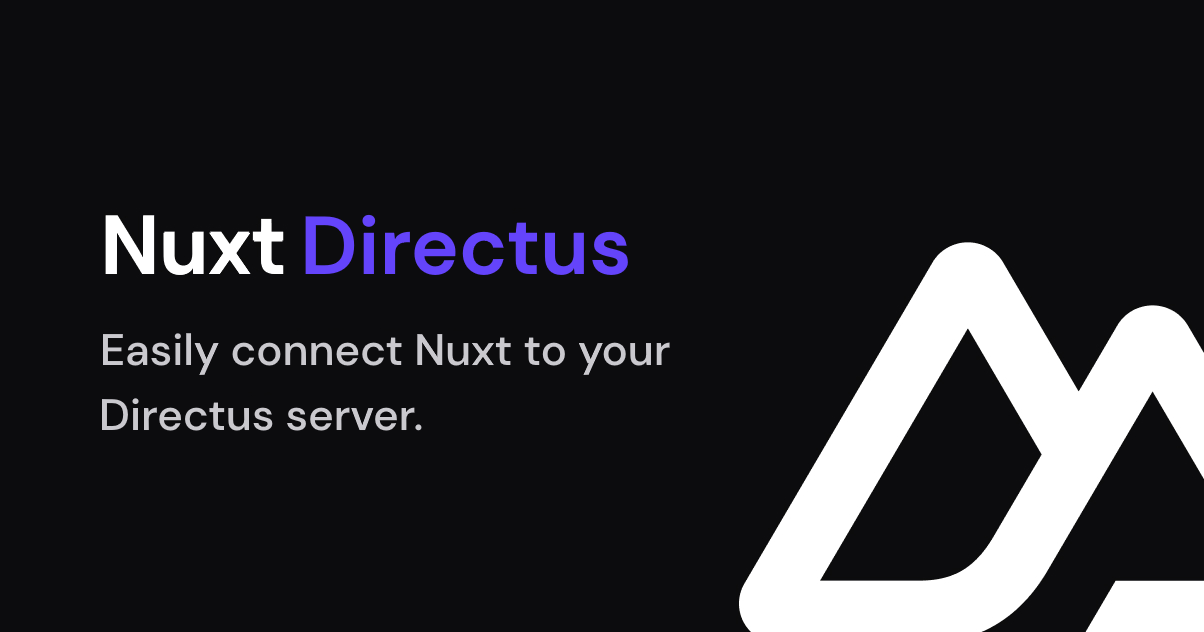
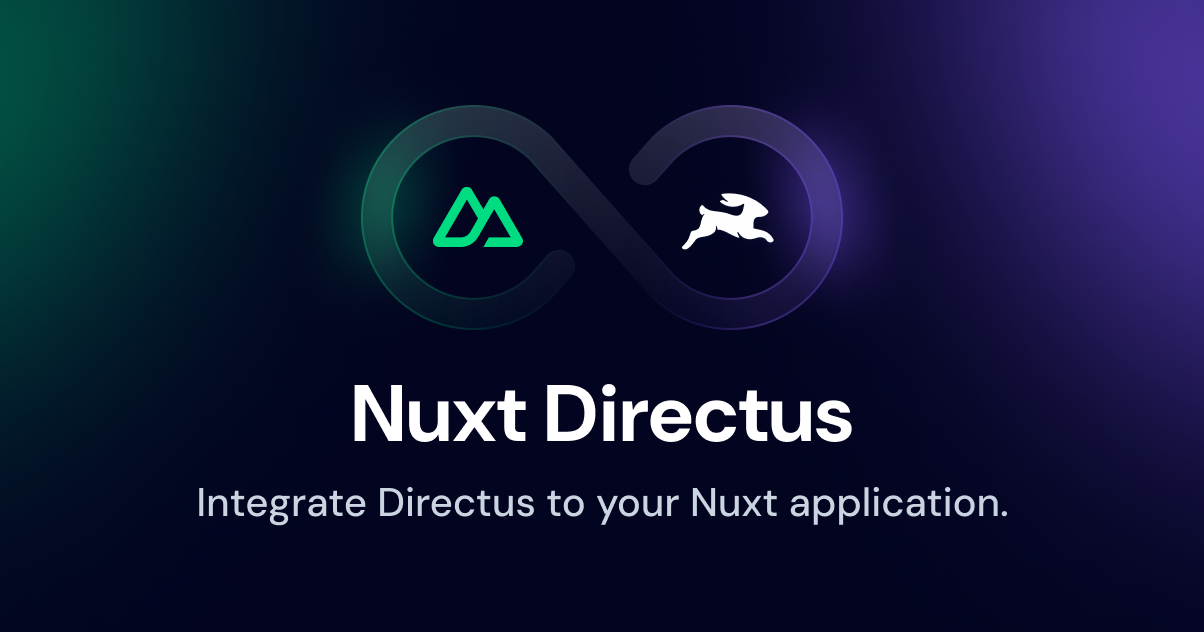
docs: update cover

diff --git a/README.md b/README.md
@@ -1,4 +1,4 @@
-[![nuxt-directus](https://user-images.githubusercontent.com/522079/158864859-0fbeae62-9d7a-4619-b35e-f8fa5f68e0c8.png)](https://nuxt-directus.site/)
+[![nuxt-directus](https://github.com/Intevel/nuxt-directus/blob/c027156408fd558f7867a6e5218d2d19acea445d/docs/public/cover.png)](https://nuxt-directus.site/)
 
 # Nuxt Directus
 
